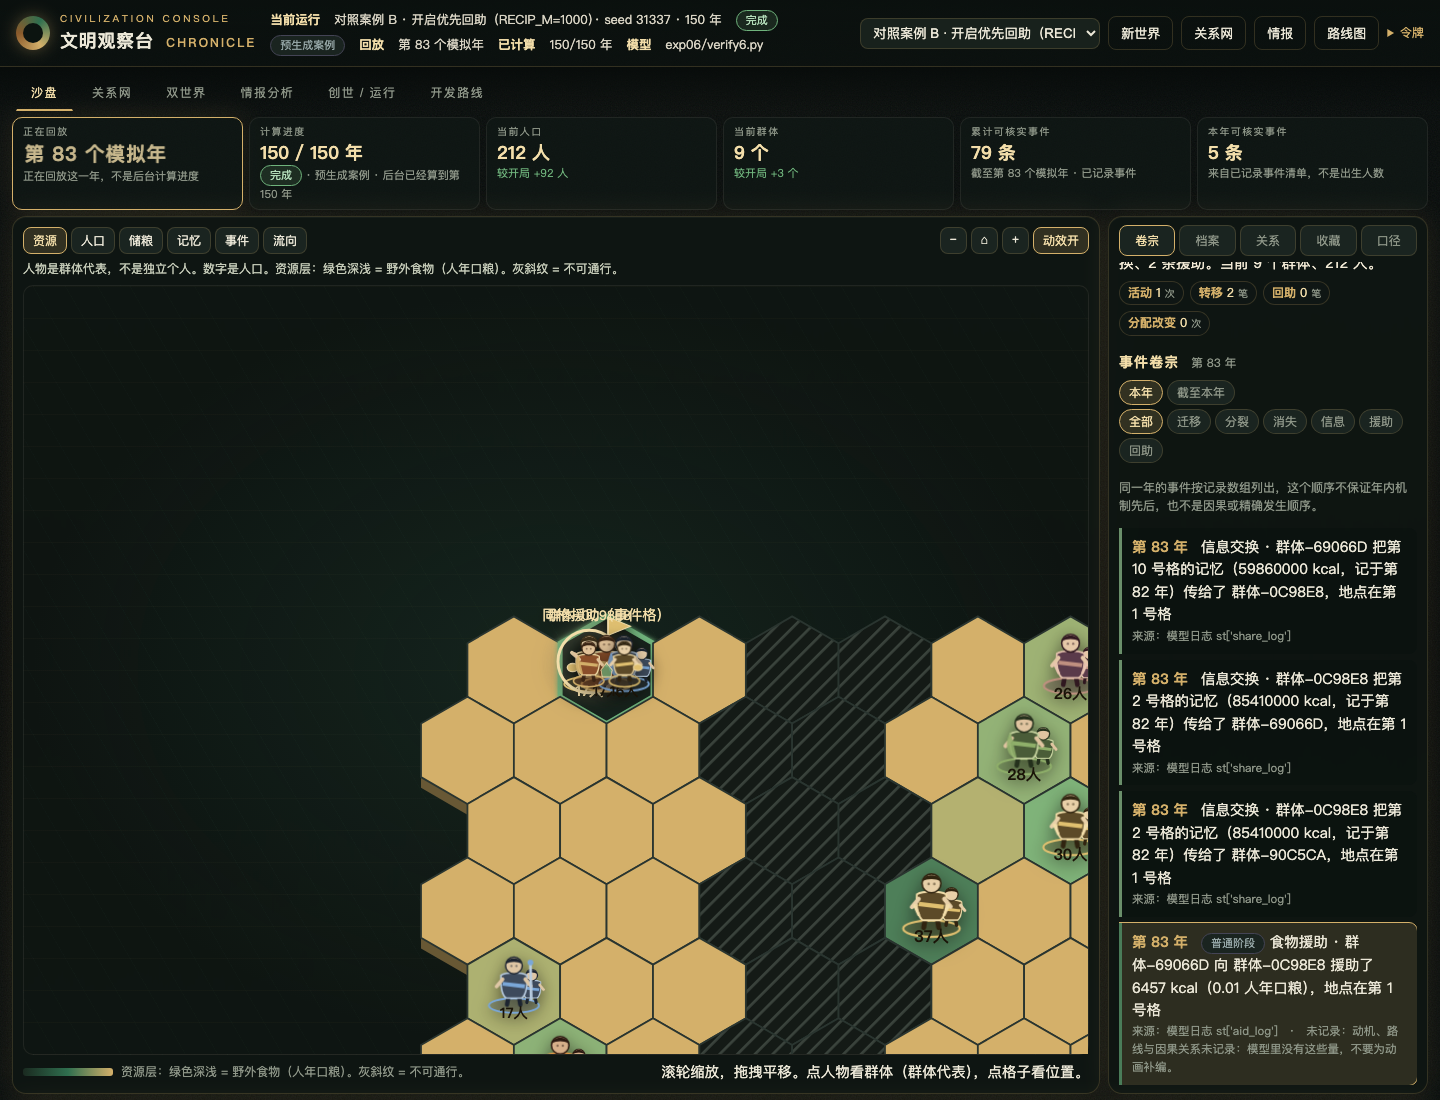
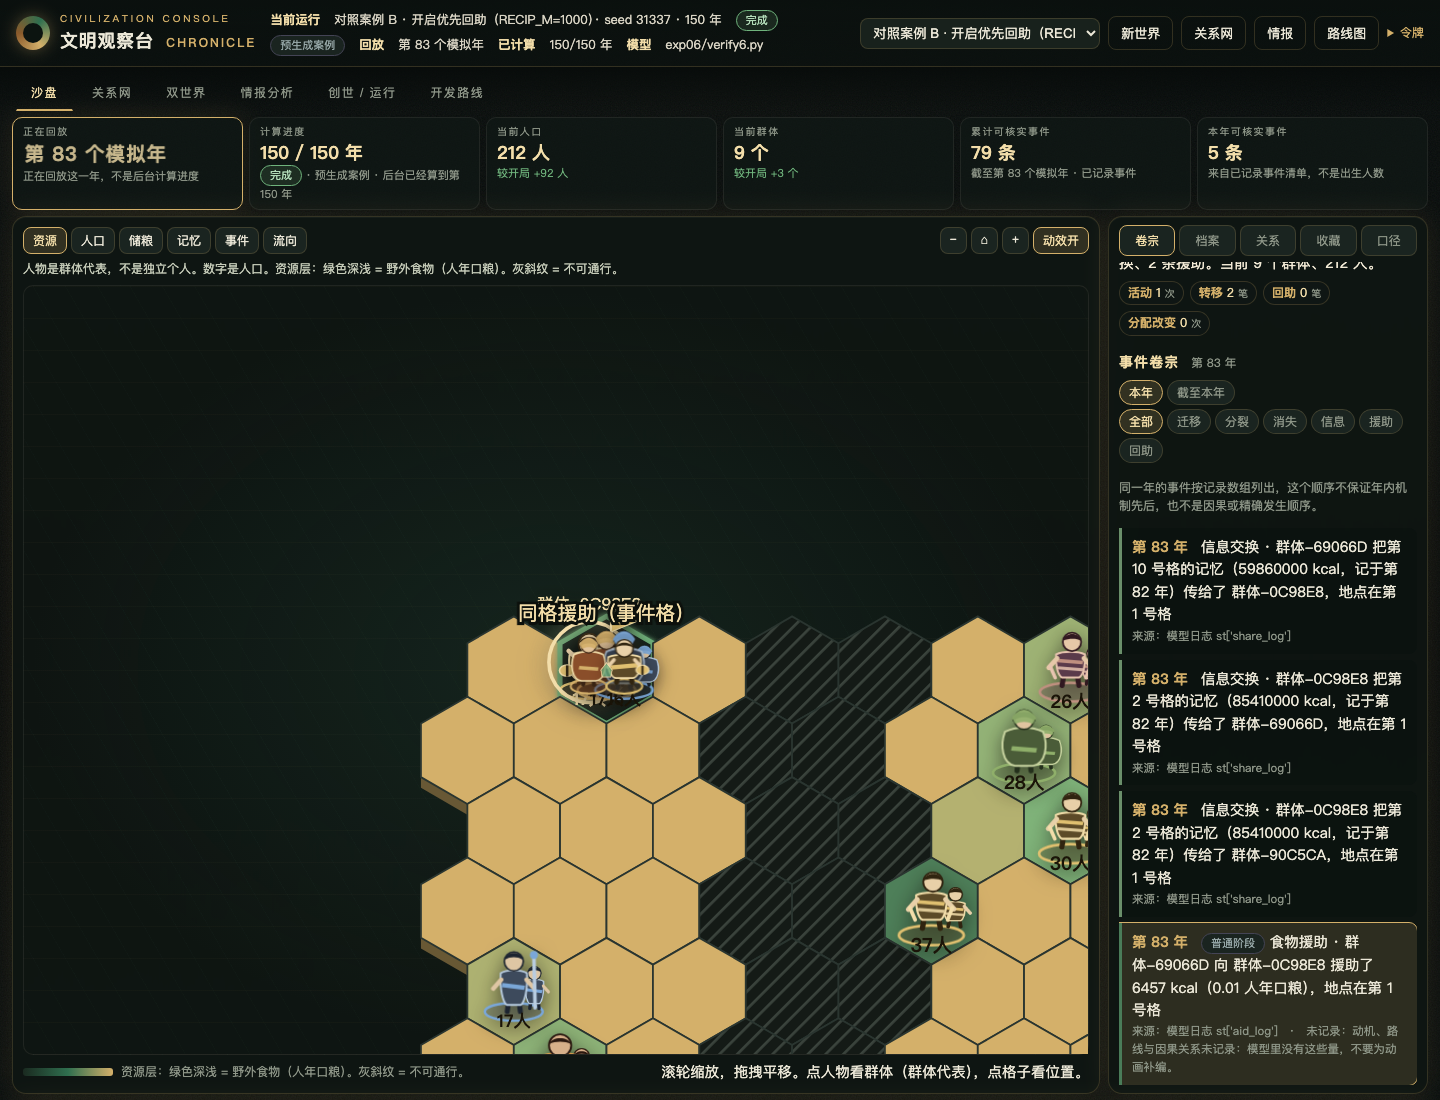
OBS-01 game-v2 distinct silhouettes slower event cadence and larger phone hits

diff --git a/observer/web/app.js b/observer/web/app.js
@@ -447,7 +447,10 @@ const UnitArt = {
   },
   scale(size) {
     const n = Math.max(1, Number(size) || 1);
-    return Math.max(0.92, Math.min(1.42, 0.82 + Math.sqrt(n) * 0.075));
+    return Math.max(1.08, Math.min(1.58, 0.98 + Math.sqrt(n) * 0.08));
+  },
+  silhouetteName(v) {
+    return ["staff", "stocky", "cloak", "scout"][(Number(v) || 0) % 4];
   },
   partyCount(size) {
     const n = Math.max(1, Number(size) || 1);
@@ -501,34 +504,62 @@ const UnitArt = {
   },
   propMarkup(v, pal) {
     if (v === 0) {
-      return `<path class="unit-prop" d="M8.2,-7.2 L8.6,10.2" stroke="${pal.accent}" stroke-width="1.4" stroke-linecap="round" fill="none"/>`
-        + `<circle cx="8.2" cy="-8.1" r="1.45" fill="${pal.sash}"/>`;
+      return `<path class="unit-prop" d="M8.6,-9.2 L9.1,12.4" stroke="${pal.accent}" stroke-width="1.55" stroke-linecap="round" fill="none"/>`
+        + `<circle cx="8.6" cy="-10.2" r="1.7" fill="${pal.sash}"/>`;
     }
     if (v === 1) {
-      return `<ellipse class="unit-prop" cx="-8.2" cy="5.0" rx="2.7" ry="2.0" fill="${pal.sash}" stroke="${pal.accent}" stroke-width="0.65"/>`;
+      return `<ellipse class="unit-prop" cx="-9.4" cy="5.6" rx="3.3" ry="2.4" fill="${pal.sash}" stroke="${pal.accent}" stroke-width="0.7"/>`
+        + `<path d="M-9.4,3.4 L-9.4,8.2" stroke="${pal.hair}" stroke-width="1.1"/>`;
     }
     if (v === 2) {
-      return `<path class="unit-prop" d="M-6.2,-2.6 C-9.2,1.4 -8.4,9.0 -3.4,9.4" fill="${pal.sash}" opacity="0.88"/>`;
+      return "";
     }
-    return `<path class="unit-prop" d="M-7.4,3.2 L-5.6,7.2 M7.4,3.2 L5.6,7.2" stroke="${pal.accent}" stroke-width="1.3" stroke-linecap="round" fill="none"/>`;
+    return `<path class="unit-prop" d="M-8.2,3.6 L-6.2,8.2 M8.0,3.6 L6.2,8.2" stroke="${pal.accent}" stroke-width="1.45" stroke-linecap="round" fill="none"/>`;
   },
   figureMarkup(pal, pose, v, ox, oy, sc, lead) {
-    const armY = pose === "give" ? "-3.4" : (pose === "select" ? "-2.4" : (pose === "walk" ? "2.0" : "3.8"));
-    const armRY = pose === "talk" ? "-3.6" : (pose === "walk" ? "2.6" : "3.6");
-    const legL = pose === "walk" ? "M-2.6,7.2 L-4.6,13.0" : "M-2.4,7.2 L-3.4,12.8";
-    const legR = pose === "walk" ? "M2.4,7.2 L4.4,13.0" : "M2.2,7.2 L3.2,12.8";
-    const prop = lead ? this.propMarkup(v, pal) : "";
-    return `<g class="unit-figure${lead ? " unit-lead" : " unit-companion"}" transform="translate(${ox},${oy}) scale(${sc})">
-        <path class="unit-leg unit-leg-l" d="${legL}" stroke="${pal.hair}" stroke-width="2.15" stroke-linecap="round" fill="none"/>
-        <path class="unit-leg unit-leg-r" d="${legR}" stroke="${pal.hair}" stroke-width="2.15" stroke-linecap="round" fill="none"/>
-        <path class="unit-tunic" d="M-6.4,-1.8 C-7.0,4.0 -5.6,8.6 -3.8,9.6 L3.8,9.6 C5.6,8.6 7.0,4.0 6.4,-1.8 C3.8,-3.4 -3.8,-3.4 -6.4,-1.8Z" fill="${pal.cloth}" stroke="${pal.accent}" stroke-width="0.8"/>
-        <path class="unit-sash" d="M-5.4,1.5 L5.6,2.8 L5.2,4.7 L-5.8,3.4Z" fill="${pal.sash}"/>
-        <path class="unit-arm-l" d="M-5.6,0.2 L-8.6,${armY}" stroke="${pal.skin}" stroke-width="1.85" stroke-linecap="round" fill="none"/>
-        <path class="unit-arm-r" d="M5.6,0.2 L8.4,${armRY}" stroke="${pal.skin}" stroke-width="1.85" stroke-linecap="round" fill="none"/>
-        <circle class="unit-head" cx="0" cy="-6.6" r="4.15" fill="${pal.skin}" stroke="${pal.hair}" stroke-width="0.7"/>
-        <path class="unit-hair" d="M-4.0,-7.4 C-3.4,-11.0 3.4,-11.0 4.0,-7.4 C1.8,-8.8 -1.8,-8.8 -4.0,-7.4Z" fill="${pal.hair}"/>
-        ${lead ? `<circle cx="-1.25" cy="-6.35" r="0.55" fill="${pal.hair}" opacity="0.5"/><circle cx="1.25" cy="-6.35" r="0.55" fill="${pal.hair}" opacity="0.5"/>` : ""}
-        ${prop}
+    const kind = (Number(v) || 0) % 4;
+    const sil = this.silhouetteName(kind);
+    const armY = pose === "give" ? "-4.0" : (pose === "select" ? "-2.8" : (pose === "walk" ? "2.2" : "4.2"));
+    const armRY = pose === "talk" ? "-4.2" : (pose === "walk" ? "2.8" : "4.0");
+    const walk = pose === "walk";
+    let legs, tunic, sash, head, extra = "";
+    if (kind === 1) {
+      legs = `<path class="unit-leg unit-leg-l" d="${walk ? "M-3.4,6.6 L-5.2,12.2" : "M-3.2,6.6 L-4.0,12.0"}" stroke="${pal.hair}" stroke-width="2.7" stroke-linecap="round" fill="none"/>`
+        + `<path class="unit-leg unit-leg-r" d="${walk ? "M3.4,6.6 L5.2,12.2" : "M3.2,6.6 L4.0,12.0"}" stroke="${pal.hair}" stroke-width="2.7" stroke-linecap="round" fill="none"/>`;
+      tunic = `<path class="unit-tunic" d="M-8.4,-1.0 C-9.2,4.6 -7.2,9.0 -4.6,9.8 L4.6,9.8 C7.2,9.0 9.2,4.6 8.4,-1.0 C4.6,-2.8 -4.6,-2.8 -8.4,-1.0Z" fill="${pal.cloth}" stroke="${pal.accent}" stroke-width="0.85"/>`;
+      sash = `<path class="unit-sash" d="M-7.2,2.0 L7.4,3.2 L6.8,5.4 L-7.6,4.2Z" fill="${pal.sash}"/>`;
+      head = `<circle class="unit-head" cx="0" cy="-5.6" r="4.55" fill="${pal.skin}" stroke="${pal.hair}" stroke-width="0.75"/>`
+        + `<path class="unit-hair" d="M-4.4,-6.2 C-3.4,-9.4 3.4,-9.4 4.4,-6.2 C2.0,-7.4 -2.0,-7.4 -4.4,-6.2Z" fill="${pal.hair}"/>`;
+    } else if (kind === 2) {
+      legs = `<path class="unit-leg unit-leg-l" d="${walk ? "M-2.4,7.6 L-3.8,13.4" : "M-2.2,7.6 L-2.8,13.2"}" stroke="${pal.hair}" stroke-width="2.05" stroke-linecap="round" fill="none"/>`
+        + `<path class="unit-leg unit-leg-r" d="${walk ? "M2.4,7.6 L3.8,13.4" : "M2.2,7.6 L2.8,13.2"}" stroke="${pal.hair}" stroke-width="2.05" stroke-linecap="round" fill="none"/>`;
+      tunic = `<path class="unit-tunic" d="M-7.6,-2.4 C-9.6,2.8 -8.8,10.4 -3.6,11.2 L3.6,11.2 C8.8,10.4 9.6,2.8 7.6,-2.4 C3.2,-4.6 -3.2,-4.6 -7.6,-2.4Z" fill="${pal.cloth}" stroke="${pal.accent}" stroke-width="0.8"/>`;
+      sash = `<path class="unit-sash" d="M-4.8,3.4 L5.2,4.2 L4.8,6.0 L-5.2,5.2Z" fill="${pal.sash}"/>`;
+      head = `<circle class="unit-head" cx="0" cy="-7.2" r="3.9" fill="${pal.skin}" stroke="${pal.hair}" stroke-width="0.6"/>`
+        + `<path class="unit-hair" d="M-4.6,-6.4 C-5.2,-11.6 5.2,-11.6 4.6,-6.4 C2.4,-8.8 -2.4,-8.8 -4.6,-6.4Z" fill="${pal.hair}"/>`;
+      extra = `<path class="unit-hood" d="M-4.8,-7.8 C-2.2,-12.4 2.2,-12.4 4.8,-7.8 L3.4,-5.4 C1.4,-6.6 -1.4,-6.6 -3.4,-5.4Z" fill="${pal.sash}" opacity="0.92"/>`;
+    } else if (kind === 3) {
+      legs = `<path class="unit-leg unit-leg-l" d="${walk ? "M-2.8,6.4 L-4.8,11.6" : "M-2.6,6.4 L-3.4,11.4"}" stroke="${pal.hair}" stroke-width="2.05" stroke-linecap="round" fill="none"/>`
+        + `<path class="unit-leg unit-leg-r" d="${walk ? "M2.8,6.4 L4.8,11.6" : "M2.6,6.4 L3.4,11.4"}" stroke="${pal.hair}" stroke-width="2.05" stroke-linecap="round" fill="none"/>`;
+      tunic = `<path class="unit-tunic" d="M-5.8,-1.2 C-6.2,3.4 -5.0,7.4 -3.4,8.2 L3.4,8.2 C5.0,7.4 6.2,3.4 5.8,-1.2 C3.2,-2.6 -3.2,-2.6 -5.8,-1.2Z" fill="${pal.cloth}" stroke="${pal.accent}" stroke-width="0.8"/>`;
+      sash = `<path class="unit-sash" d="M-5.0,0.6 L5.2,1.4 L4.8,2.8 L-5.4,2.0Z" fill="${pal.sash}"/>`
+        + `<path class="unit-sash" d="M-5.0,3.6 L5.2,4.4 L4.8,5.6 L-5.4,4.8Z" fill="${pal.accent}" opacity="0.85"/>`;
+      head = `<circle class="unit-head" cx="0.6" cy="-6.2" r="3.7" fill="${pal.skin}" stroke="${pal.hair}" stroke-width="0.7"/>`
+        + `<path class="unit-hair" d="M-3.0,-6.8 C-2.2,-10.2 3.6,-10.4 4.4,-6.6 C2.4,-7.8 -0.6,-7.6 -3.0,-6.8Z" fill="${pal.hair}"/>`;
+    } else {
+      legs = `<path class="unit-leg unit-leg-l" d="${walk ? "M-2.2,8.0 L-3.6,14.2" : "M-2.0,8.0 L-2.8,14.0"}" stroke="${pal.hair}" stroke-width="2.15" stroke-linecap="round" fill="none"/>`
+        + `<path class="unit-leg unit-leg-r" d="${walk ? "M2.2,8.0 L3.6,14.2" : "M2.0,8.0 L2.8,14.0"}" stroke="${pal.hair}" stroke-width="2.15" stroke-linecap="round" fill="none"/>`;
+      tunic = `<path class="unit-tunic" d="M-5.6,-2.4 C-6.0,4.8 -4.6,10.2 -3.0,11.2 L3.0,11.2 C4.6,10.2 6.0,4.8 5.6,-2.4 C3.2,-4.0 -3.2,-4.0 -5.6,-2.4Z" fill="${pal.cloth}" stroke="${pal.accent}" stroke-width="0.8"/>`;
+      sash = `<path class="unit-sash" d="M-4.8,1.8 L4.8,3.0 L4.4,4.8 L-5.2,3.6Z" fill="${pal.sash}"/>`;
+      head = `<circle class="unit-head" cx="0" cy="-7.4" r="4.05" fill="${pal.skin}" stroke="${pal.hair}" stroke-width="0.7"/>`
+        + `<path class="unit-hair" d="M-3.8,-8.2 C-3.2,-12.0 3.2,-12.0 3.8,-8.2 C1.6,-9.6 -1.6,-9.6 -3.8,-8.2Z" fill="${pal.hair}"/>`;
+    }
+    const arms = kind === 2 ? ""
+      : `<path class="unit-arm-l" d="M-5.4,0.4 L-8.8,${armY}" stroke="${pal.skin}" stroke-width="1.9" stroke-linecap="round" fill="none"/>`
+        + `<path class="unit-arm-r" d="M5.4,0.4 L8.6,${armRY}" stroke="${pal.skin}" stroke-width="1.9" stroke-linecap="round" fill="none"/>`;
+    const prop = lead ? this.propMarkup(kind, pal) : "";
+    return `<g class="unit-figure${lead ? " unit-lead" : " unit-companion"}" data-silhouette="${sil}" transform="translate(${ox},${oy}) scale(${sc})">
+        ${legs}${tunic}${sash}${arms}${head}${extra}${prop}
       </g>`;
   },
   markup(b, x, y, opts) {
@@ -556,15 +587,15 @@ const UnitArt = {
           <path d="M9.5,-20 L20.5,-15.5 L9.5,-11Z" fill="${pal.sash}" stroke="${pal.accent}" stroke-width="0.5"/>
         </g>`
       : "";
-    return `<g class="band unit${on ? " selected" : ""}${ghost}" data-band="${esc(bid)}" data-unit="group-rep" data-party="${nParty}" data-pose="${esc(pose)}" data-cell="${esc(cell)}" transform="translate(${Number(x).toFixed(1)},${Number(y).toFixed(1)}) scale(${(sc * facing).toFixed(3)},${sc.toFixed(3)})">
-      <title>${esc(name)} · 群体代表（${nParty}人造型）· ${size}人。这是群体的可视替身，不是独立个人生平。</title>
-      <ellipse class="unit-camp" cx="0" cy="13.2" rx="${campRx}" ry="3.6" fill="${pal.cloth}" fill-opacity="0.32" stroke="${pal.sash}" stroke-width="0.95"/>
+    return `<g class="band unit${on ? " selected" : ""}${ghost}" data-band="${esc(bid)}" data-unit="group-rep" data-party="${nParty}" data-silhouette="${this.silhouetteName(v)}" data-pose="${esc(pose)}" data-cell="${esc(cell)}" transform="translate(${Number(x).toFixed(1)},${Number(y).toFixed(1)}) scale(${(sc * facing).toFixed(3)},${sc.toFixed(3)})">
+      <title>${esc(name)} · 群体代表（${this.silhouetteName(v)} · ${nParty}人造型）· ${size}人。这是群体的可视替身，不是独立个人生平。</title>
+      <ellipse class="unit-camp" cx="0" cy="14.0" rx="${campRx}" ry="3.8" fill="${pal.cloth}" fill-opacity="0.34" stroke="${pal.sash}" stroke-width="1.05"/>
       <g class="unit-body unit-${esc(pose)}">${party}</g>
-      ${on ? `<circle class="unit-ring" cx="0" cy="2" r="15.5" fill="none" stroke="${pal.accent}" stroke-width="1.45"/>` : ""}
+      ${on ? `<circle class="unit-ring" cx="0" cy="2" r="17.2" fill="none" stroke="${pal.accent}" stroke-width="1.55"/>` : ""}
       ${banner}
-      ${opts.hit === false ? "" : `<rect class="unit-hit" x="-18" y="-22" width="36" height="42" fill="transparent"/>`}
-      ${opts.showPop === false ? "" : `<text class="unit-pop" x="0" y="19.2" text-anchor="middle" font-size="7.1" fill="${on ? "#f3deaa" : "#1a1408"}" font-weight="700" pointer-events="none">${size}人</text>`}
-      ${opts.showName ? `<text class="unit-name" x="0" y="-18.5" text-anchor="middle" font-size="6.5" fill="#f3deaa" pointer-events="none">${esc(name)}</text>` : ""}
+      ${opts.hit === false ? "" : `<rect class="unit-hit" x="-22" y="-26" width="44" height="50" fill="transparent"/>`}
+      ${opts.showPop === false ? "" : `<text class="unit-pop" x="0" y="20.4" text-anchor="middle" font-size="7.4" fill="${on ? "#f3deaa" : "#1a1408"}" font-weight="700" pointer-events="none">${size}人</text>`}
+      ${opts.showName ? `<text class="unit-name" x="0" y="-20.2" text-anchor="middle" font-size="7.0" fill="#f3deaa" pointer-events="none">${esc(name)}</text>` : ""}
     </g>`;
   },
   labelMarkup(b, x, y, opts) {
@@ -1250,8 +1281,8 @@ function renderMap() {
         skin: S.skin,
         pose: on ? "select" : "idle",
         scale: UnitArt.scale(b.size) * (n > 3 ? 0.84 : 1),
-        showPop: lodB >= 0.92,
-        showName: lodB >= 1.55 || on,
+        showPop: lodB >= 0.85,
+        showName: lodB >= 1.02 || on,
       });
     });
   });
@@ -2076,7 +2107,10 @@ async function gotoYear(t, opts) {
   return finishOk();
 }
 function playDelay() {
-  return Math.max(80, (S.playMode === "events" ? 1250 : 650) / Math.max(S.speed || 1, 0.25));
+  return Math.max(80, (S.playMode === "events" ? 1600 : 720) / Math.max(S.speed || 1, 0.25));
+}
+function walkDuration() {
+  return Math.max(80, 1100 / Math.max(S.speed || 1, 0.25));
 }
 function tick() {
   if (!S.playing) return;
@@ -2510,7 +2544,7 @@ function svgEl(name, attrs) {
 function fxCaption(overlay, x, y, text) {
   const n = svgEl("text", {
     class: "fx-caption", x: Number(x).toFixed(1), y: Number(y).toFixed(1),
-    "text-anchor": "middle", "font-size": "8", fill: "#f3deaa",
+    "text-anchor": "middle", "font-size": "11", fill: "#f3deaa",
   });
   n.textContent = text;
   overlay.appendChild(n);
@@ -2573,7 +2607,7 @@ function paintMigrateAction(overlay, ev, plan, reduced) {
   S.fxAwayBand = ev.band ? String(ev.band) : null;
   if (!reduced) {
     const gen = S.fxGen;
-    S.fxAnim = { gen: gen, t0: performance.now(), dur: playDelay(), a: a, b: b, kind: "migrate" };
+    S.fxAnim = { gen: gen, t0: performance.now(), dur: walkDuration(), a: a, b: b, kind: "migrate" };
     const step = (now) => {
       if (gen !== S.fxGen || !S.fxAnim || S.fxAnim.gen !== gen) return;
       const u = Math.min(1, (now - S.fxAnim.t0) / S.fxAnim.dur);
@@ -2665,8 +2699,12 @@ function paintDirectorFx(opts) {
     if (!ev) return;
     const focus = DirectorLogic.eventFocus(ev);
     markEventCells(svg, ev, focus);
-    if (!focus.locate) return;
     const overlay = svgEl("g", { id: "fx-overlay", "pointer-events": "none" });
+    if (!focus.locate) {
+      fxCaption(overlay, 260, 28, "地点未记录 · 不在地图上猜测");
+      svg.appendChild(overlay);
+      return;
+    }
     const plan = UnitArt.actionPlan(ev, focus);
     if (plan.kind === "migrate") paintMigrateAction(overlay, ev, plan, reduced);
     else if (plan.kind === "share" || plan.kind === "aid") paintPairAction(overlay, ev, plan, reduced);

diff --git a/observer/web/style.css b/observer/web/style.css
@@ -241,7 +241,7 @@ footer{color:var(--muted);font-size:12px;padding:12px 24px 28px;text-align:cente
 @keyframes unit-bob{0%,100%{transform:translate(0,0)}50%{transform:translate(0,-2.2px)}}
 @keyframes unit-stride{0%,100%{transform:rotate(-11deg)}50%{transform:rotate(11deg)}}
 .fx-endpoint-line{stroke:#d4b06a;stroke-width:1.4;stroke-dasharray:4 5;opacity:.85;fill:none}
-.fx-caption{font-size:8px;fill:#f3deaa}
+.fx-caption{font-size:11px;fill:#f3deaa;paint-order:stroke;stroke:#0c100c;stroke-width:3.6}
 @keyframes flow { to { stroke-dashoffset: -24; } }
 .flow-line{stroke-dasharray:6 6;animation:flow 1s linear infinite;fill:none;stroke-width:1.6;opacity:.9}
 @keyframes yearpulse { from { opacity:.45; transform:scale(.96)} to { opacity:1; transform:none} }
@@ -335,7 +335,10 @@ html.skin-console #pane-help{display:none !important}
   .mapbox,#map{min-height:38vh}
   .map-key{display:none}
   .console{margin:4px 8px 8px;padding:6px}
-  .console .tlctl .btn{min-width:36px}
+  .console .tlctl .btn{min-width:44px;min-height:36px}
+  .ev{padding:10px 12px;min-height:44px}
+  .map-tools .btn{min-width:36px;min-height:32px}
+  .director-card{padding:10px}
   .tl-note{display:none}
   .kv{grid-template-columns:1fr}
   .kv .v{text-align:left}

diff --git a/observer/web/CONTINUOUS-PROGRESS.md b/observer/web/CONTINUOUS-PROGRESS.md
@@ -1,5 +1,15 @@
 # 连续开发进度
 
+## GROK_BUILD_003 检查点
+- 从 7152f60 续：默认缩放下拉开四种体型（staff / stocky / cloak / scout），营地更大、名字更早出现、点选热区 44×50。
+- 事件播放：事件间隔 1600ms、行走 1100ms，字幕 11px 描边；分裂只在沙盘顶栏写「地点未记录 · 不在地图上猜测」，不猜格。
+- 390 宽：时间轴按钮 ≥44px，事件行 min-height 44px。
+- 8788 PID 8659 未重启（静态即当前 web）。8765/8772 未动。
+- 试玩：http://127.0.0.1:8788/static/index.html#tab=world&run=preset-exp06-recip1000&t=0
+  建议 t=0 看营地体型 → 点选 → 事件模式 t=4 迁移 / t=83 援助 / t=125 信息 / t=52 分裂。
+- tests：game-v2-unit 20/0；game-v2-cdp 19/0（silN=3 cloak/scout/staff）；director-logic 18/0；g04-fix 6/0
+- 下一轮：事件模式手机卷宗与沙盘联动更醒目；衣饰对比再加强；bitmap 精灵仍可选；Safari 无 headless。
+
 ## GROK_BUILD_002 检查点
 - 从 a217dc42 续：先跑完整 `observer/run_tests.py`，修 O18b/O18c（毒化脚本删行导致语法错，自检 dump 0 条 FAIL）。
 - 毒化现同时关掉 opAlive / yearNavAlive / openRun 世代守卫，且不再用正则删行。套件 **213 pass / 0 fail / 1 uncovered**（O28m 预置无消失，未覆盖）。
